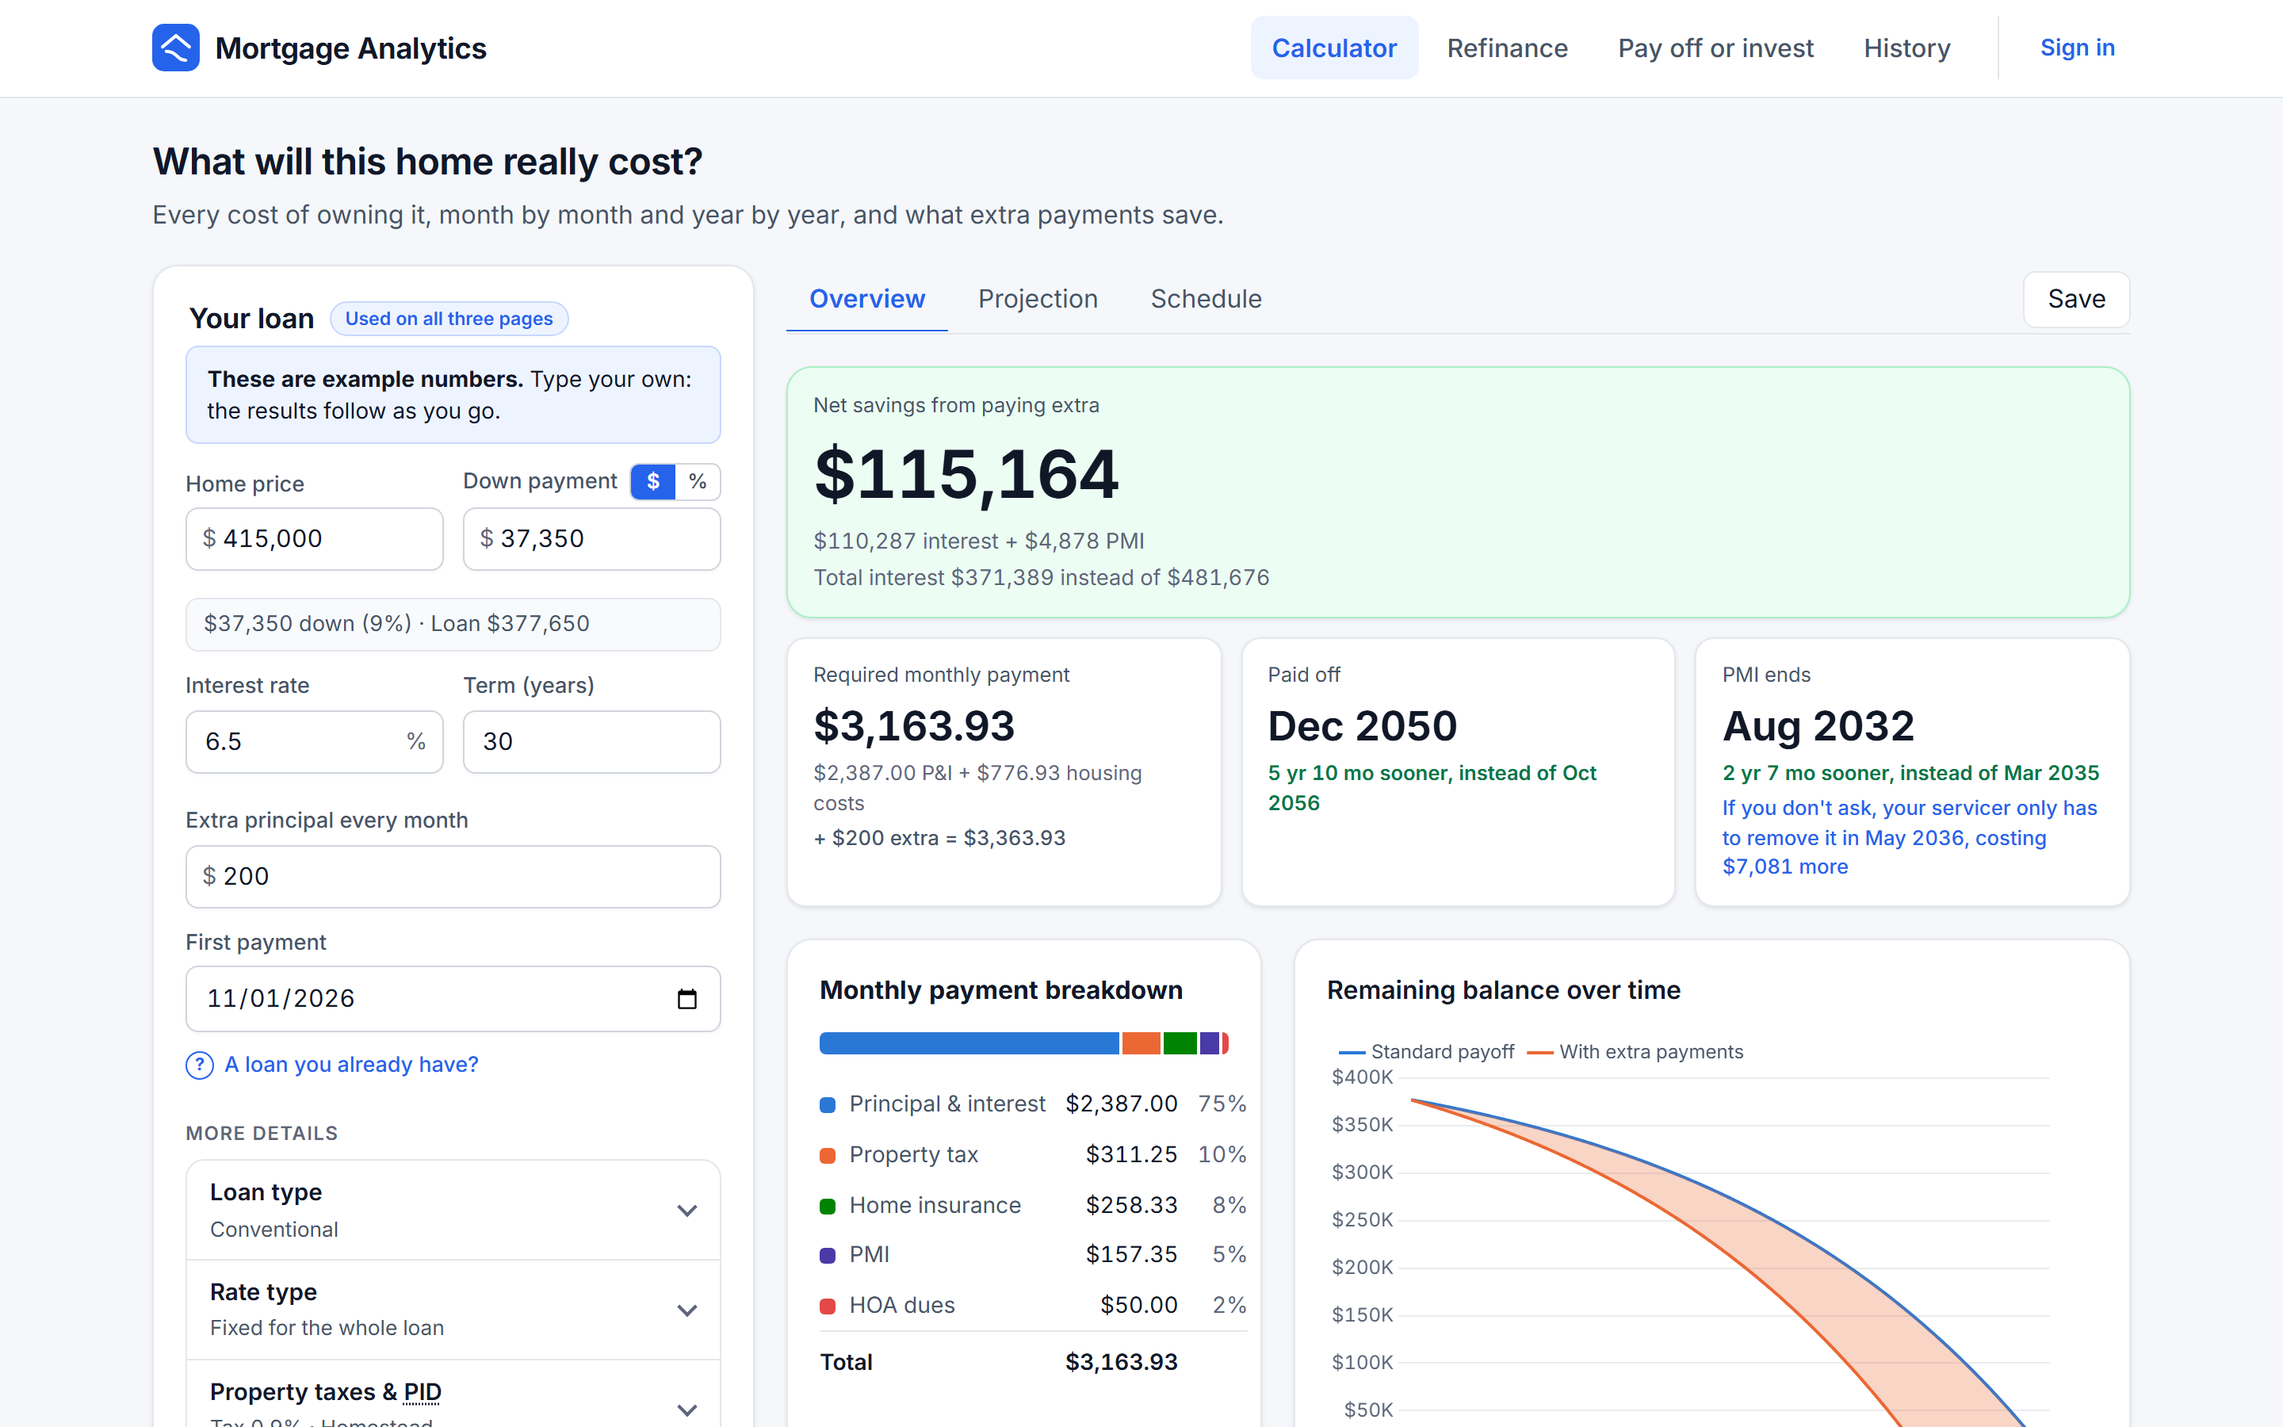
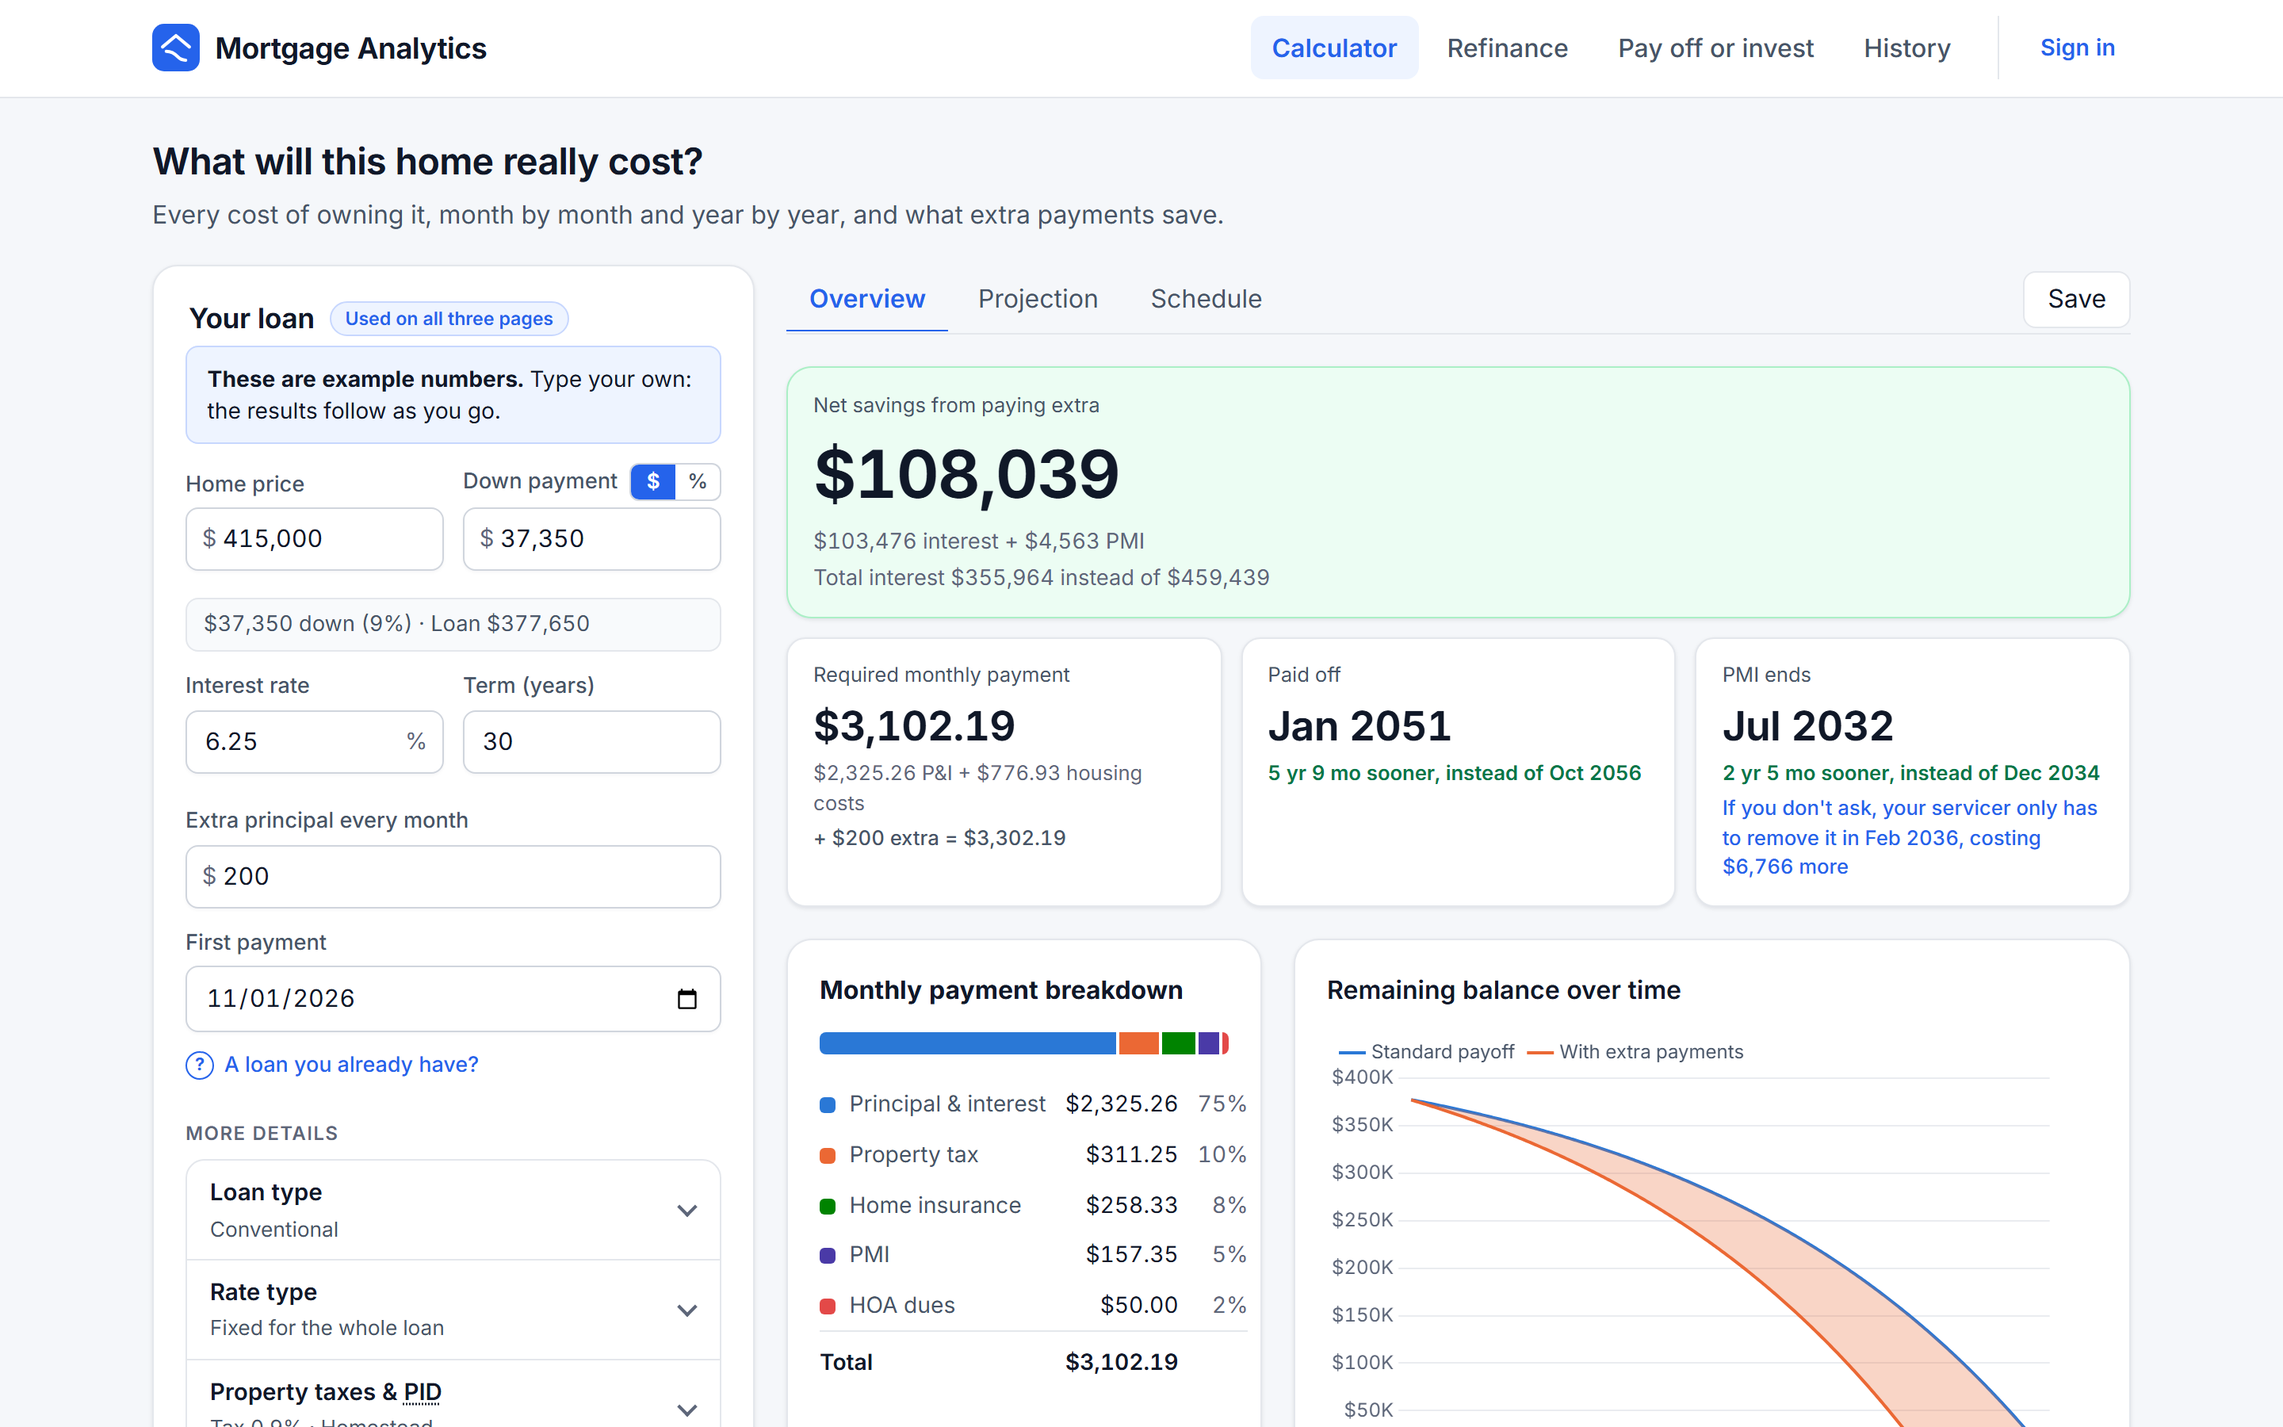
Today's average rate, 6.25%, for the loans taken out today
The Calculator's purchase and the Refinance offer use 6.25%, about the
average 30-year fixed rate now; the existing loans (7% and 6.5%, from 2024)
keep theirs. The Calculator's ARM still resets a point higher (7.25%), and
its discount points are priced against a quarter point more (6.5%).

The example now costs $3,102.19 a month and the extra $200 saves $108,039;
refinancing the 2024 loan saves $14,067. The reference refinance (25 years
left, into 6%, $17,415 more) is still checked by typing those values.

The restart panel showed "$1,562.5": money() now writes cents as two
digits whenever there are any.

diff --git a/client/src/app/features/calculator/loan-form/loan-form.component.spec.ts b/client/src/app/features/calculator/loan-form/loan-form.component.spec.ts
@@ -639,7 +639,7 @@ describe('LoanFormComponent', () => {
       expect(last().adjustableRate).toEqual({
         initialFixedMonths: 60, adjustmentIntervalMonths: 6, expectedRate: 7.5, initialCap: 5, periodicCap: 2, lifetimeCap: 5, margin: 2.75,
       });
-      expect(text('rate-summary')).toBe('5/6 ARM: 6.5% for 5 yr, then toward 7.5% (caps 5/2/5, floor 2.75%)');
+      expect(text('rate-summary')).toBe('5/6 ARM: 6.25% for 5 yr, then toward 7.5% (caps 5/2/5, floor 2.75%)');
     });
 
     it("sends the ARM's margin as its floor, and a blank margin as none", () => {
@@ -649,7 +649,7 @@ describe('LoanFormComponent', () => {
       controls().rate.controls.armMargin.setValue(null);
       fixture.detectChanges();
       expect(last().adjustableRate?.margin).toBeNull();
-      expect(text('rate-summary')).toBe('7/1 ARM: 6.5% for 7 yr, then toward 7.5% (caps 5/2/5)');
+      expect(text('rate-summary')).toBe('7/1 ARM: 6.25% for 7 yr, then toward 7.25% (caps 5/2/5)');
     });
 
     it('reopens a saved buydown or adjustable rate as it was', () => {
@@ -855,7 +855,7 @@ describe('LoanFormComponent', () => {
 
       turnOn();
 
-      expect(last().discountPoints).toEqual({ points: 1, rateWithoutPoints: 6.75 });
+      expect(last().discountPoints).toEqual({ points: 1, rateWithoutPoints: 6.5 });
       expect(el('points')).not.toBeNull();
       expect(text('rate-summary')).toBe('Fixed for the whole loan · 1 point');
     });
@@ -874,7 +874,7 @@ describe('LoanFormComponent', () => {
       const reports: string[][] = [];
       component.problems.subscribe((p) => reports.push(p));
 
-      controls().rateWithoutPoints.setValue(6.5);
+      controls().rateWithoutPoints.setValue(6.25); // the same as the rate with them
       fixture.detectChanges();
 
       expect(emitted).toHaveLength(sent);

diff --git a/client/e2e/refinance.spec.ts b/client/e2e/refinance.spec.ts
@@ -8,8 +8,11 @@ import { expect, test } from './fixtures';
  */
 test.describe('Refinance', () => {
   const verdict = (page: Page) => page.getByTestId('refi-verdict');
-  /** The reference refinance has 25 years left; the page's example (a 2024 loan) has 28. */
-  const reference = async (page: Page) => page.getByTestId('years-left').fill('25');
+  /** The reference refinance: 25 years left, into 6%. The page's example is a 2024 loan (28 years left) into today's 6.25%. */
+  const reference = async (page: Page) => {
+    await page.getByTestId('years-left').fill('25');
+    await page.getByTestId('new-rate').fill('6');
+  };
 
   test.beforeEach(async ({ page }) => {
     await page.goto('/');
@@ -18,9 +21,9 @@ test.describe('Refinance', () => {
     await expect(page.getByTestId('results'), 'the first comparison has arrived').toHaveAttribute('aria-busy', 'false');
   });
 
-  test('the example: a 2024 loan at 7% into 6% saves money, though restarting the clock costs part of it', async ({ page }) => {
-    await expect(verdict(page), '28 years left: two years added, outweighed by the lower rate').toContainText('Refinancing saves $31,527');
-    await expect(page.getByTestId('refi-payment'), 'the payment drops').toContainText('$240.18 less than now');
+  test('the example: a 2024 loan at 7% into 6.25% saves money, though restarting the clock costs part of it', async ({ page }) => {
+    await expect(verdict(page), '28 years left: two years added, outweighed by the lower rate').toContainText('Refinancing saves $14,067');
+    await expect(page.getByTestId('refi-payment'), 'the payment drops').toContainText('$191.68 less than now');
     await expect(page.getByTestId('refi-restart'), 'and the restart is why it saves less').toContainText('saves less than the lower rate alone would');
   });
 

diff --git a/client/src/app/features/calculator/loan-form/loan-form.model.ts b/client/src/app/features/calculator/loan-form/loan-form.model.ts
@@ -54,7 +54,8 @@ export function loanForm(fb: NonNullableFormBuilder) {
     downPaymentMode: fb.control<DownPaymentMode>('amount'),
     // Dollars or a percentage of the price, depending on downPaymentMode.
     downPayment: [37_350, validatorsFor(rules.downPayment)],
-    annualInterestRate: [6.5, validatorsFor(rules.annualInterestRate)],
+    // About the average 30-year fixed rate today.
+    annualInterestRate: [6.25, validatorsFor(rules.annualInterestRate)],
     termYears: [30, validatorsFor(rules.termYears)],
     // Optional: a blank date lets the API default to the first of next month.
     firstPaymentDate: [firstOfMonthFromNext(0)],
@@ -108,13 +109,13 @@ export function loanForm(fb: NonNullableFormBuilder) {
     strategy: fb.control<ExtraPaymentStrategy>('ShortenTerm'),
 
     // Fixed, a buydown, or a 7/1 ARM with the usual 5/2/5 caps, expected to reset a point higher.
-    rate: rateOptionsForm(fb, 7.5),
+    rate: rateOptionsForm(fb, 7.25),
     // Who pays for a buydown: the seller or builder (a concession), unless the buyer says they do, at closing.
     buydownPaidBy: fb.control<BuydownFunding>('Seller'),
     // Discount points: off unless chosen; one point, against a quarter point more without it.
     usePoints: [false],
     points: [1, validatorsFor(rules.points)],
-    rateWithoutPoints: [6.75, validatorsFor(rules.rateWithoutPoints)],
+    rateWithoutPoints: [6.5, validatorsFor(rules.rateWithoutPoints)],
     recastMinimum: [10_000, validatorsFor(rules.recastMinimum)],
     recastFee: [250, validatorsFor(rules.recastFee)],
   });

diff --git a/client/e2e/rate-options.spec.ts b/client/e2e/rate-options.spec.ts
@@ -16,7 +16,9 @@ test.describe('Adjustable rates and buydowns beyond the calculator', () => {
   test('refinancing a 7% ARM about to reset to 9% saves money, and more in the worst case', async ({ page }) => {
     await page.goto('/refinance');
     await arrived(page, 'the worked example');
-    await page.getByTestId('years-left').fill('25'); // the reference refinance in tools/rate-check/rate_model.py
+    // The reference refinance in tools/rate-check/rate_model.py: 25 years left, into 6%.
+    await page.getByTestId('years-left').fill('25');
+    await page.getByTestId('new-rate').fill('6');
     await open(page, 'section-current-rate');
     await page.getByTestId('current-rate-type-arm').check();
     await page.getByTestId('current-arm-fixed-months').fill('24');
@@ -34,7 +36,8 @@ test.describe('Adjustable rates and buydowns beyond the calculator', () => {
   test('a 2-1 buydown on the new loan is paid at closing and changes nothing overall', async ({ page }) => {
     await page.goto('/refinance');
     await arrived(page, 'the worked example');
-    await page.getByTestId('years-left').fill('25'); // the reference refinance
+    await page.getByTestId('years-left').fill('25'); // the reference refinance: 25 years left, into 6%
+    await page.getByTestId('new-rate').fill('6');
     await open(page, 'section-new-rate');
     await page.getByTestId('new-rate-type-buydown').check();
     await arrived(page, 'the comparison');

diff --git a/client/e2e/calculator.spec.ts b/client/e2e/calculator.spec.ts
@@ -14,9 +14,9 @@ test.describe('Mortgage calculator', () => {
     await expect(calculator.breakdown, 'the breakdown starts with principal and interest').toContainText('Principal & interest');
     await expect(calculator.breakdown, 'the default example includes property tax, as one rate').toContainText('Property tax');
     await expect(calculator.breakdown, 'the default example has 9% down, so PMI').toContainText('PMI');
-    // An average US purchase: $415,000 with 9% down at 6.5%, 0.9% property tax, $3,100 of insurance, $50 of HOA dues.
-    // $377,650 borrowed: $2,387.00 of principal and interest, plus $311.25 + $258.33 + $157.35 + $50 = $3,163.93.
-    await expect(calculator.totalMonthlyPayment, 'every cost of the average example, each month').toHaveText('$3,163.93');
+    // An average US purchase: $415,000 with 9% down at 6.25%, 0.9% property tax, $3,100 of insurance, $50 of HOA dues.
+    // $377,650 borrowed: $2,325.26 of principal and interest, plus $311.25 + $258.33 + $157.35 + $50 = $3,102.19.
+    await expect(calculator.totalMonthlyPayment, 'every cost of the average example, each month').toHaveText('$3,102.19');
     await expect(calculator.pmiEnd, 'the PMI end date is shown when PMI applies').toBeVisible();
     await expect(calculator.chart, 'the balance chart renders').toBeVisible();
     await calculator.showResults('schedule');

diff --git a/client/src/app/features/refinance/refinance-form/refinance-form.component.ts b/client/src/app/features/refinance/refinance-form/refinance-form.component.ts
@@ -81,7 +81,8 @@ export class RefinanceFormComponent implements OnInit {
     originalAmount: [{ value: 0, disabled: true }, validatorsFor(rules.originalAmount)],
     originalTermYears: [{ value: 30, disabled: true }, validatorsFor(rules.originalTermYears)],
     firstPaymentDate: [{ value: '', disabled: true }, Validators.required],
-    newAnnualInterestRate: [6, validatorsFor(rules.newAnnualInterestRate)],
+    // About the average 30-year fixed rate today.
+    newAnnualInterestRate: [6.25, validatorsFor(rules.newAnnualInterestRate)],
     newTerm: this.fb.control<NewTerm>('30'),
     closingCosts: [6_000, validatorsFor(rules.closingCosts)],
     financeClosingCosts: [false],
@@ -92,7 +93,7 @@ export class RefinanceFormComponent implements OnInit {
     // Each loan's rate: the current one may adjust (its next reset two years off, expected two points higher);
     // the new one may adjust (a 7/1 by default) or be bought down.
     currentRate: rateOptionsForm(this.fb, 9, 24),
-    newRate: rateOptionsForm(this.fb, 7.5),
+    newRate: rateOptionsForm(this.fb, 7.25),
   });
 
   private readonly values = toSignal(this.form.valueChanges, { initialValue: this.form.getRawValue() });

diff --git a/client/src/app/features/refinance/refinance-form/refinance-form.component.spec.ts b/client/src/app/features/refinance/refinance-form/refinance-form.component.spec.ts
@@ -46,7 +46,7 @@ describe('RefinanceFormComponent', () => {
       currentAnnualInterestRate: 7,
       remainingTermInMonths: 336,
       nextPaymentDate: null,
-      newAnnualInterestRate: 6,
+      newAnnualInterestRate: 6.25,
       newTermInMonths: 360,
       closingCosts: 6_000,
       financeClosingCosts: false,
@@ -110,7 +110,7 @@ describe('RefinanceFormComponent', () => {
     fixture.detectChanges();
 
     expect(emitted[0]).toEqual(expect.objectContaining({
-      currentBalance: 250_000, currentAnnualInterestRate: 7.25, remainingTermInMonths: 270, newAnnualInterestRate: 6, closingCosts: 6_000,
+      currentBalance: 250_000, currentAnnualInterestRate: 7.25, remainingTermInMonths: 270, newAnnualInterestRate: 6.25, closingCosts: 6_000,
     }));
     expect(el('loan-shared')!.textContent).toContain('Filled in from your loan on the Pay off or invest page.');
   });

diff --git a/client/src/app/core/formatting/format.ts b/client/src/app/core/formatting/format.ts
@@ -13,8 +13,8 @@ export const usd = (value: number) => dollars.format(value);
 /** "$1,234.56": dollars and cents. */
 export const usdCents = (value: number) => cents.format(value);
 
-/** "$1,500" for whole dollars, "$1,798.65" otherwise. */
-export const money = (value: number) => dollarsOrCents.format(value);
+/** "$1,500" for whole dollars, "$1,798.65" or "$1,562.50" otherwise: cents, when there are any, always two digits. */
+export const money = (value: number) => (Number.isInteger(Math.round(value * 100) / 100) ? dollarsOrCents.format(value) : cents.format(value));
 
 /** "$1.2M": for chart axes. */
 export const compactUsd = (value: number) => compactDollars.format(value);

diff --git a/client/src/app/features/calculator/loan-form/loan-form.model.spec.ts b/client/src/app/features/calculator/loan-form/loan-form.model.spec.ts
@@ -24,7 +24,7 @@ describe('loan form model', () => {
         localHomesteadExemptionPercent: 0, mudHomesteadExemptionPercent: 0, homesteadAssessmentCap: 10,
         isOver65: false, over65Year: 1, over65LocalExemption: 0, transferredCeilingPercent: null,
         pidAnnual: 0, pidYears: null, pmiCancellation: 'BorrowerRequested', closingCredits: 0,
-        annualExtra: 0, annualFirstPayment: 12, usePoints: false, rateWithoutPoints: 6.75, buydownPaidBy: 'Seller',
+        annualExtra: 0, annualFirstPayment: 12, usePoints: false, rateWithoutPoints: 6.5, buydownPaidBy: 'Seller',
       }));
     });
 

diff --git a/client/e2e/shared-loan.spec.ts b/client/e2e/shared-loan.spec.ts
@@ -29,7 +29,7 @@ test.describe('One loan across the pages', () => {
     await box(page, 'balance').fill('240000');
     await go(page, 'Refinance');
     await expect(box(page, 'current-balance'), 'a change made here goes back too').toHaveValue('240,000');
-    await expect(box(page, 'new-rate'), 'while the offer stays as it was').toHaveValue('6');
+    await expect(box(page, 'new-rate'), 'while the offer stays as it was').toHaveValue('6.25');
   });
 
   test('the loan on the Calculator is where the other pages start', async ({ page }) => {

diff --git a/client/src/app/features/refinance/refinance-page.component.spec.ts b/client/src/app/features/refinance/refinance-page.component.spec.ts
@@ -97,6 +97,6 @@ describe('RefinancePageComponent', () => {
     (page.querySelector('[data-testid="save-open"]') as HTMLButtonElement).click();
     fixture.detectChanges();
 
-    expect((page.querySelector('[data-testid="save-name"]') as HTMLInputElement).value).toBe('Refinance 7% → 6%, 30 yr');
+    expect((page.querySelector('[data-testid="save-name"]') as HTMLInputElement).value).toBe('Refinance 7% → 6.25%, 30 yr');
   });
 });

diff --git a/client/src/app/core/formatting/format.spec.ts b/client/src/app/core/formatting/format.spec.ts
@@ -6,6 +6,7 @@ describe('format', () => {
     expect(usdCents(1234.5)).toBe('$1,234.50');
     expect(money(1500)).toBe('$1,500');
     expect(money(1798.65)).toBe('$1,798.65');
+    expect(money(1562.5)).toBe('$1,562.50'); // cents always two digits
     expect(compactUsd(1_250_000)).toBe('$1.3M');
   });
 
